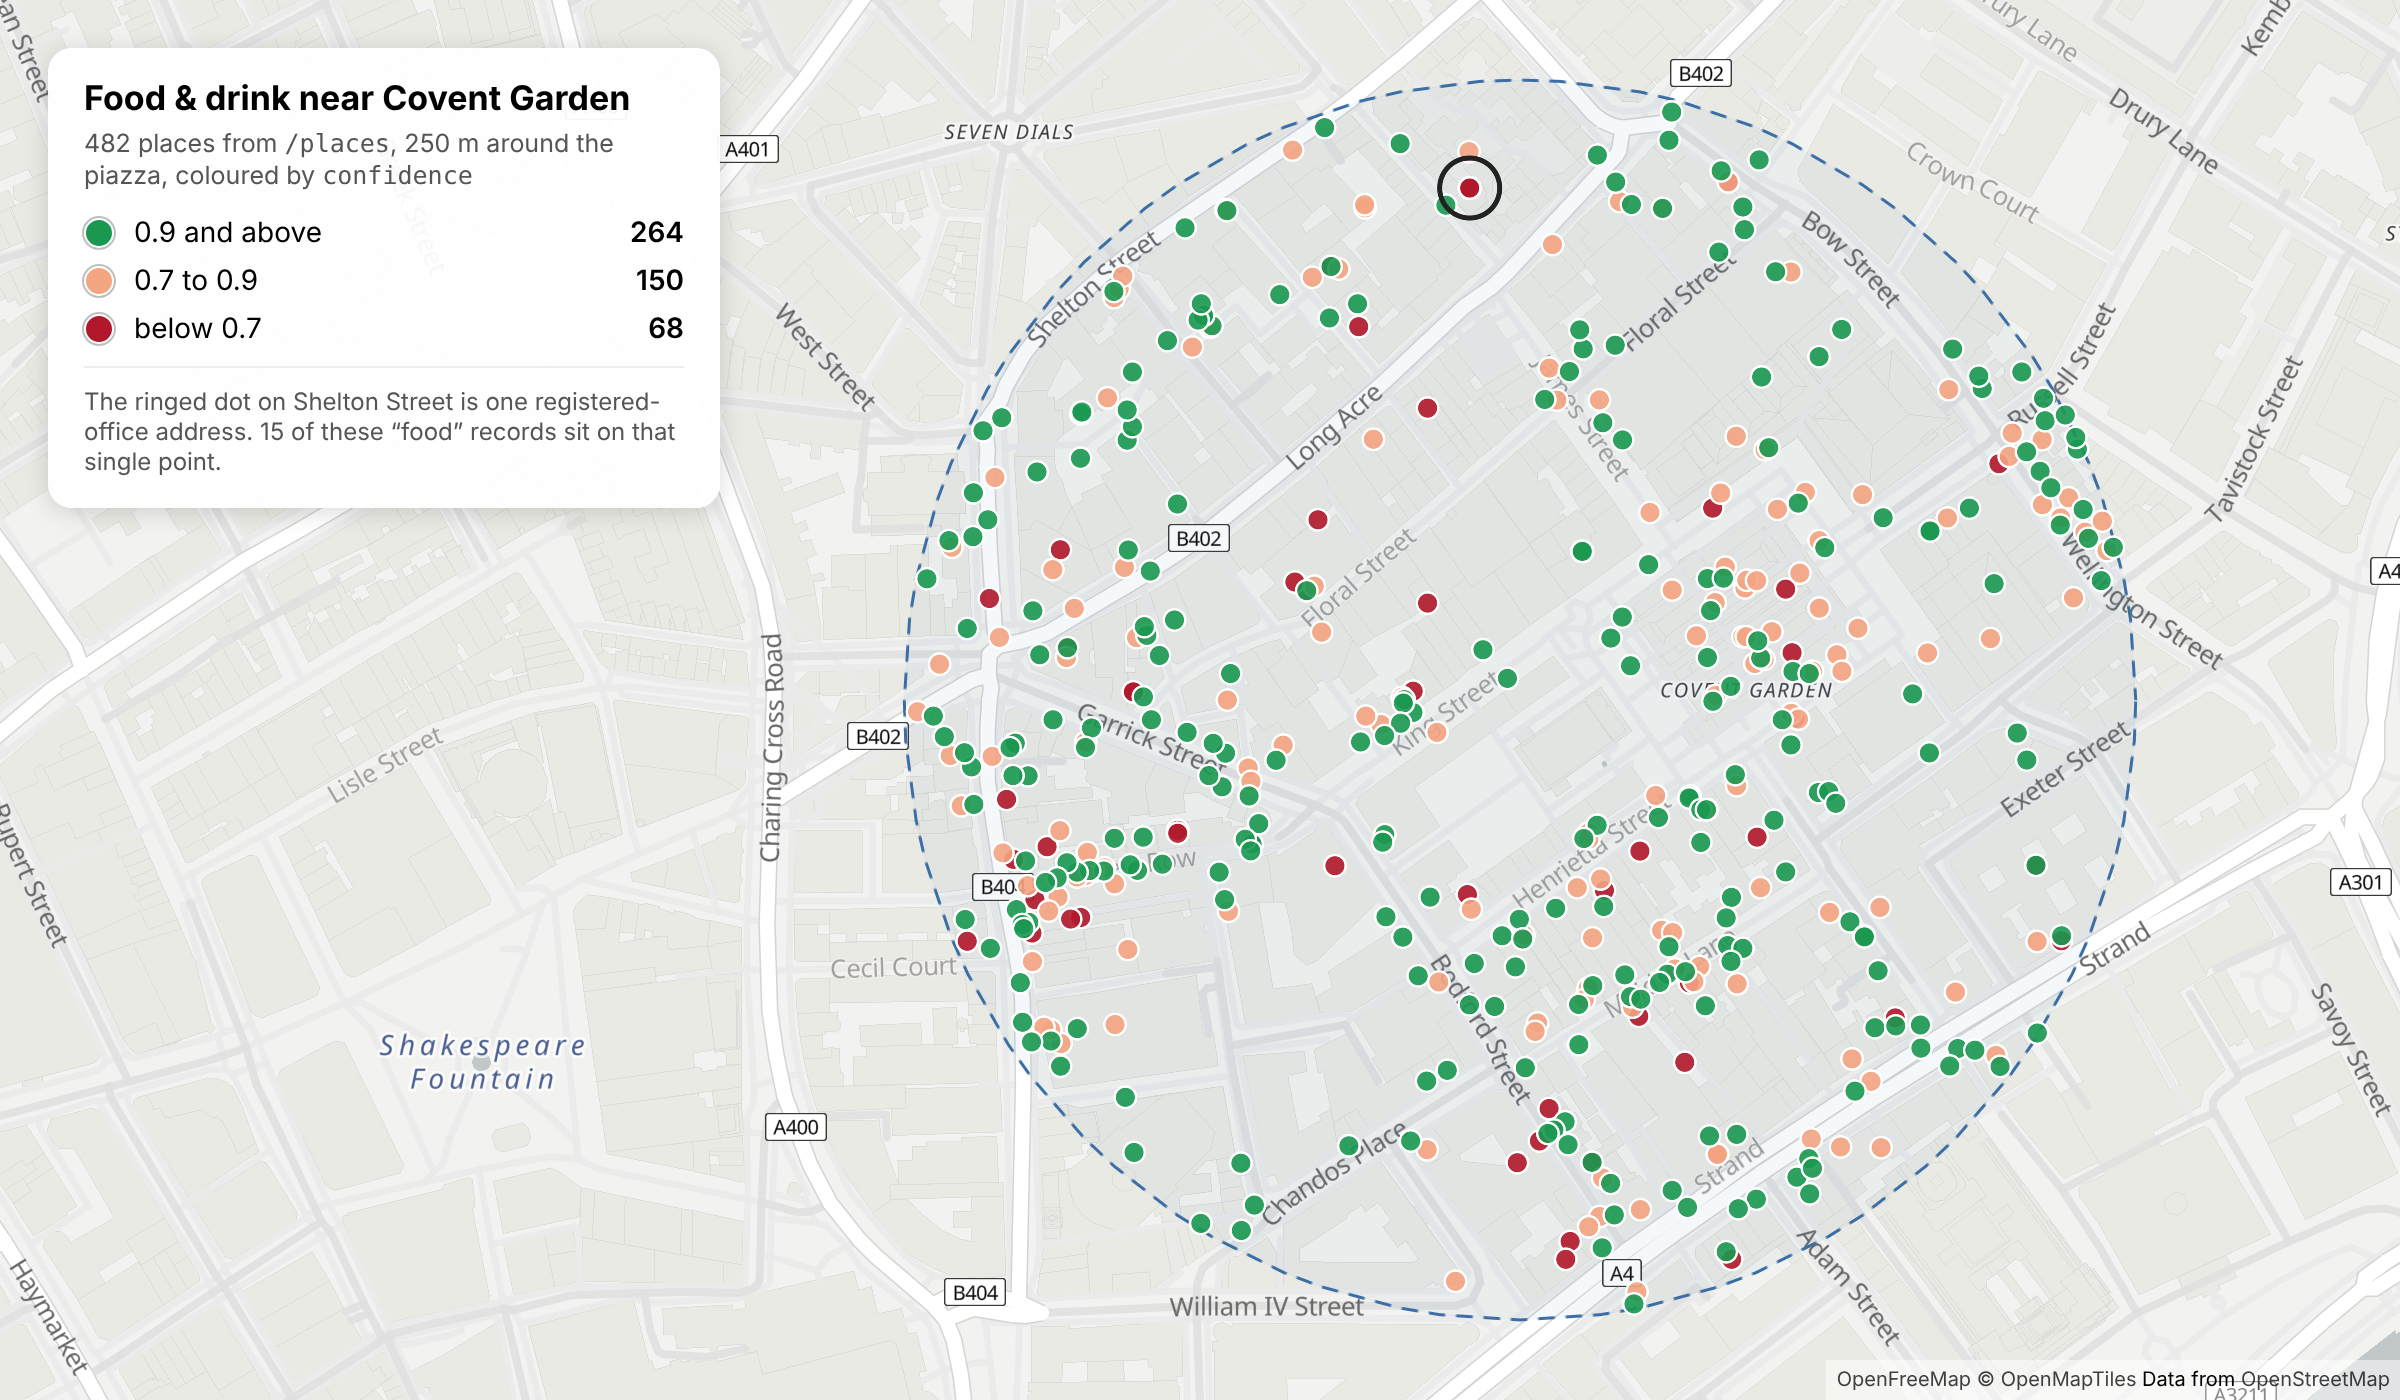
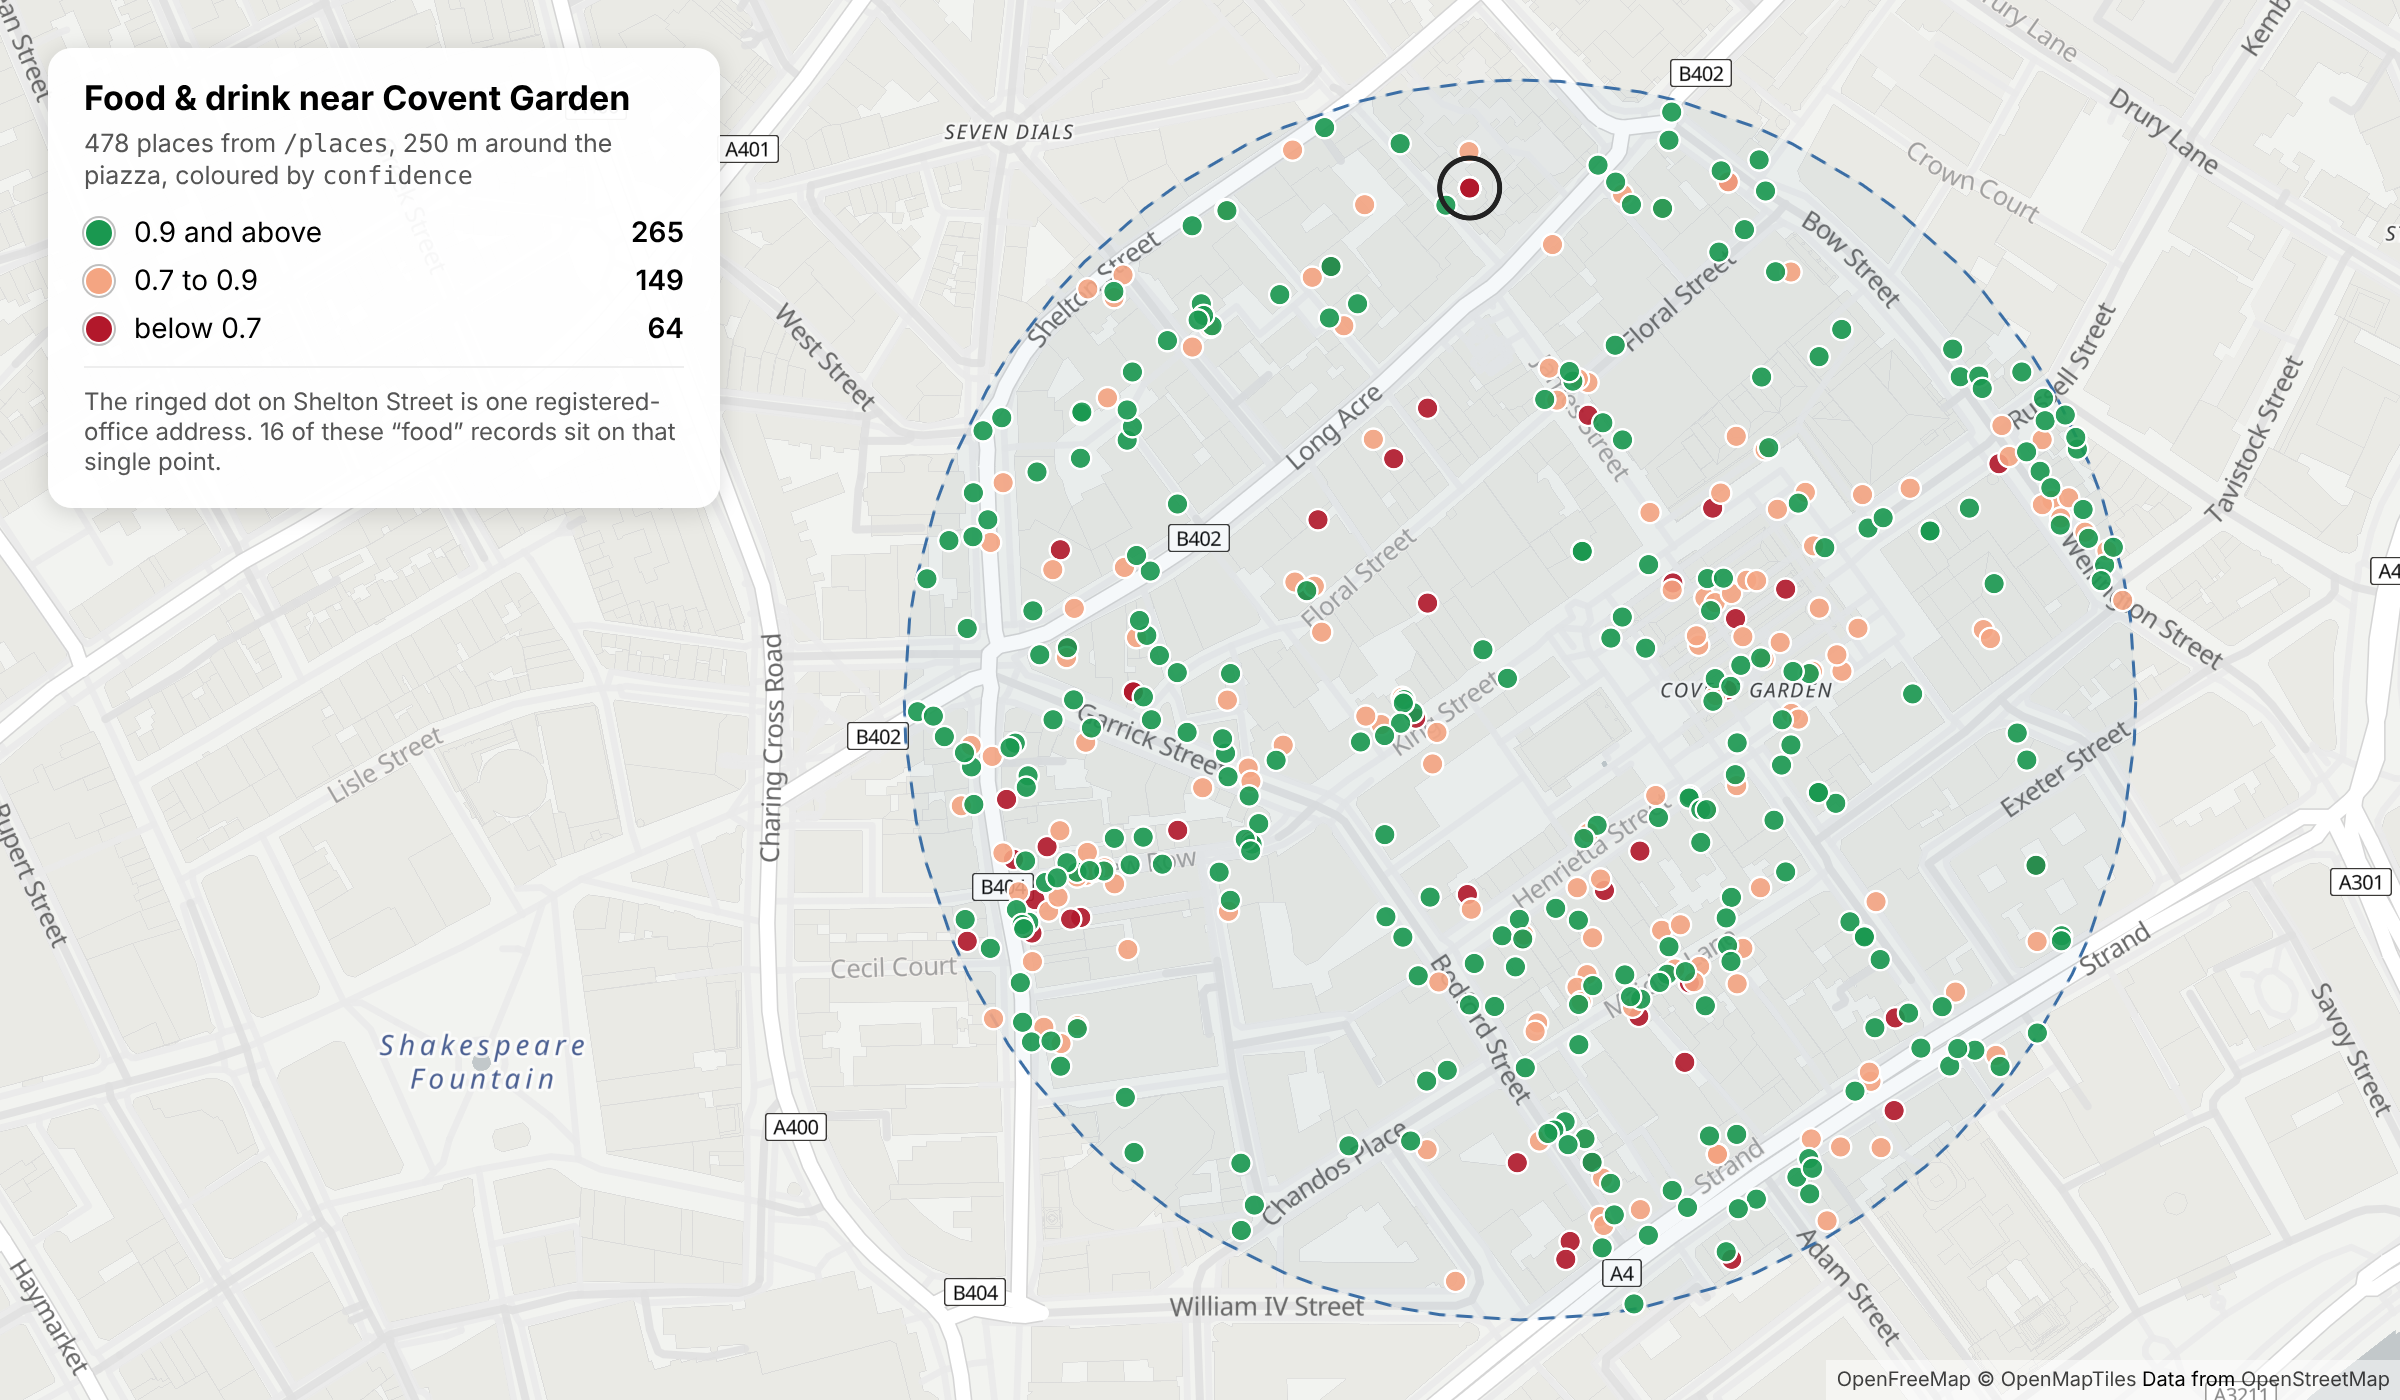
Guide: Choose a min_confidence for Overture places

diff --git a/docs/guides/choose-a-min-confidence-for-overture-places.md b/docs/guides/choose-a-min-confidence-for-overture-places.md
@@ -16,9 +16,9 @@ Every Overture place carries a `confidence` score between 0 and 1, and `/places`
 
 This guide measures what each threshold does around **Covent Garden in London**, with real counts from the API, so you can choose with numbers instead of guesswork. London is one of the demo key's cities, so every request below works as written with `DEMO-API-KEY`. No GeoParquet download or DuckDB needed.
 
-![Food and drink places within 250 m of Covent Garden piazza, coloured by confidence: 264 at 0.9 and above, 150 from 0.7 to 0.9, and 68 below 0.7](/img/guides/choose-a-min-confidence-for-overture-places.png)
+![Food and drink places within 250 m of Covent Garden piazza, coloured by confidence: 265 at 0.9 and above, 149 from 0.7 to 0.9, and 64 below 0.7](/img/guides/choose-a-min-confidence-for-overture-places.png)
 
-<sub>482 food and drink places from live `/places` responses within 250 m of Covent Garden piazza, coloured by `confidence`. Map: OpenFreeMap, © OpenMapTiles, data © OpenStreetMap contributors.</sub>
+<sub>478 food and drink places from live `/places` responses within 250 m of Covent Garden piazza, coloured by `confidence`. Map: OpenFreeMap, © OpenMapTiles, data © OpenStreetMap contributors.</sub>
 
 ## What you'll build
 
@@ -37,10 +37,10 @@ curl -s -D - -o /dev/null -H "x-api-key: DEMO-API-KEY" -G 'https://api.overturem
 ```
 
 ```
-pagination-count: 7091
+pagination-count: 7637
 ```
 
-That's 7,091 places within 250 m of the piazza with no filter at all. It looks high for a few streets, and Step 3 explains why. Each count is a normal request and counts towards your [monthly allowance](/docs/limits), but at one result per request it costs very little.
+That's 7,637 places within 250 m of the piazza with no filter at all. It looks high for a few streets, and Step 3 explains why. Each count is a normal request and counts towards your [monthly allowance](/docs/limits), but at one result per request it costs very little.
 
 ## Step 2: Compare thresholds
 
@@ -48,21 +48,21 @@ Run the same count with different `min_confidence` values, once for every place 
 
 | `min_confidence` | All places (250 m) | Food and drink (250 m) |
 | --- | --- | --- |
-| `0` | 7,489 | 517 |
-| not set (default `0.5`) | 7,091 | 482 |
-| `0.6` | 2,393 | 433 |
-| `0.7` | 1,887 | 414 |
-| `0.8` | 1,370 | 307 |
-| `0.9` | 1,018 | 264 |
-| `0.95` | 682 | 238 |
+| `0` | 8,062 | 534 |
+| not set (default `0.5`) | 7,637 | 478 |
+| `0.6` | 2,446 | 429 |
+| `0.7` | 1,891 | 414 |
+| `0.8` | 1,382 | 316 |
+| `0.9` | 1,015 | 265 |
+| `0.95` | 681 | 242 |
 
 Three things stand out.
 
-**The default is already 0.5.** Leaving `min_confidence` out gives the same 7,091 as `min_confidence=0.5`. To see the records below 0.5, pass `min_confidence=0` explicitly: that adds 398 places here.
+**The default is already 0.5.** Leaving `min_confidence` out gives the same 7,637 as `min_confidence=0.5`. To see the records below 0.5, pass `min_confidence=0` explicitly: that adds 425 places here.
 
-**Most of the drop happens just above 0.5.** `min_confidence=0.51` returns 2,843, so 4,248 of the 7,091 places have a confidence from 0.5 up to 0.51. Within the food and drink results, 42 places score exactly 0.5.
+**Most of the drop happens just above 0.5.** `min_confidence=0.51` returns 2,930, so 4,707 of the 7,637 places have a confidence from 0.5 up to 0.51. Within the food and drink results, 43 places score exactly 0.5.
 
-**Categories behave very differently.** Raising the threshold to 0.7 keeps 27% of all places but 86% of food and drink. Here, most of the low scores belong to company registrations rather than venues (Step 3). Check the category you actually care about before choosing a number.
+**Categories behave very differently.** Raising the threshold to 0.7 keeps 25% of all places but 87% of food and drink. Here, most of the low scores belong to company registrations rather than venues (Step 3). Check the category you actually care about before choosing a number.
 
 ## Step 3: See what low confidence means here
 
@@ -74,29 +74,29 @@ curl -s -D - -o /dev/null -H "x-api-key: DEMO-API-KEY" -G 'https://api.overturem
 ```
 
 ```
-pagination-count: 4769
+pagination-count: 5250
 ```
 
-4,769 places share that single point. They are company registrations, most often filed as `corporate_or_business_office` or `professional_service`, and a few as bars and coffee shops. In a sample of 250 of them, every one came from a single source, BrightQuery. That one point accounts for 4,769 of the 7,091 places in Step 1. Raising the threshold thins it out but doesn't clear it:
+5,250 places share that single point. They are company registrations, most often filed as `corporate_or_business_office` or `professional_service`, and a few as bars and coffee shops. In a sample of 275 of them, every one came from a single source, BrightQuery. That one point accounts for 5,250 of the 7,637 places in Step 1. Raising the threshold thins it out but doesn't clear it:
 
 | Filter at the Shelton Street point (5 m) | Places |
 | --- | --- |
-| none | 4,769 |
-| `min_confidence=0.7` | 307 |
-| `min_confidence=0.9` | 195 |
-| `has_contact=phone,website` | 4,274 |
+| none | 5,250 |
+| `min_confidence=0.7` | 315 |
+| `min_confidence=0.9` | 191 |
+| `has_contact=phone,website` | 4,689 |
 
-**`has_contact` doesn't help with this.** Company records usually carry a phone number or website, so 4,274 of the 4,769 pass `has_contact=phone,website`. Across the whole 250 m radius, 6,421 of the 7,091 places do. Use `has_contact` when you need people to be able to reach a place, as in [Build a "what's near me" feature](./build-a-whats-near-me-feature#step-6-only-show-places-people-can-reach), but don't rely on it to remove junk.
+**`has_contact` doesn't help with this.** Company records usually carry a phone number or website, so 4,689 of the 5,250 pass `has_contact=phone,website`. Across the whole 250 m radius, 6,888 of the 7,637 places do. Use `has_contact` when you need people to be able to reach a place, as in [Build a "what's near me" feature](./build-a-whats-near-me-feature#step-6-only-show-places-people-can-reach), but don't rely on it to remove junk.
 
 ## Step 4: Know what you lose
 
-Low confidence doesn't mean fake. Among the 68 food and drink places below 0.7 are well-known restaurants and bars on Henrietta Street and Floral Street, such as Frenchie Covent Garden, The Petersham and Mrs Riot, all scored at 0.5. Raise the threshold to 0.7 and they disappear from your results.
+Low confidence doesn't mean fake. Among the 64 food and drink places below 0.7 are well-known restaurants and bars on Henrietta Street and Floral Street, such as Frenchie Covent Garden, The Petersham and Mrs Riot, all scored at 0.5. Raise the threshold to 0.7 and they disappear from your results.
 
-The `sources` array on each place shows why. Of the 68 places below 0.7, 47 come from a single source, BrightQuery. Of the 264 at 0.9 and above, 181 include Meta as a source, 62 of them together with BrightQuery. Here's one, shortened:
+The `sources` array on each place shows why. Of the 64 places below 0.7, 48 come from a single source, BrightQuery. Of the 265 at 0.9 and above, 179 include Meta as a source, 61 of them together with BrightQuery. Here's one, shortened:
 
 ```json
 "sources": [
-  { "property": "", "dataset": "meta", "confidence": 0.9744282364845276 },
+  { "property": "", "dataset": "meta", "confidence": 0.9697698354721069 },
   { "property": "/properties/operating_status", "dataset": "BrightQuery", "confidence": null },
   { "property": "/properties/confidence", "dataset": "Overture", "confidence": null }
 ]
@@ -144,12 +144,12 @@ export function dropStacks(features: Feature[], maxPerPoint = 25): Feature[] {
 
 const coventGarden = { lat: "51.5117", lng: "-0.1240", radius: "250" };
 console.log(await compareThresholds(coventGarden));
-// { '0': 7489, '0.5': 7091, '0.7': 1887, '0.9': 1018 }
+// { '0': 8062, '0.5': 7637, '0.7': 1891, '0.9': 1015 }
 console.log(await compareThresholds({ ...coventGarden, taxonomy: "food_and_drink" }));
-// { '0': 517, '0.5': 482, '0.7': 414, '0.9': 264 }
+// { '0': 534, '0.5': 478, '0.7': 414, '0.9': 265 }
 ```
 
-To test `dropStacks`, we fetched all 1,018 places at `min_confidence=0.9` (41 pages of 25 with the demo key, see [Pagination](/docs/pagination)). One point holds 195 of them, the Shelton Street address, and the next busiest point holds 10. `dropStacks(features)` returns 823: everything except that stack. A limit of 25 records per point clears it and leaves busy real buildings alone. Adjust it if you work somewhere with large shopping centres or office towers.
+To test `dropStacks`, we fetched all 1,015 places at `min_confidence=0.9` (41 pages of 25 with the demo key, see [Pagination](/docs/pagination)). One point holds 191 of them, the Shelton Street address, and the next busiest point holds 9. `dropStacks(features)` returns 824: everything except that stack. A limit of 25 records per point clears it and leaves busy real buildings alone. Adjust it if you work somewhere with large shopping centres or office towers.
 
 ## Step 6: Pick a threshold for your feature
 
